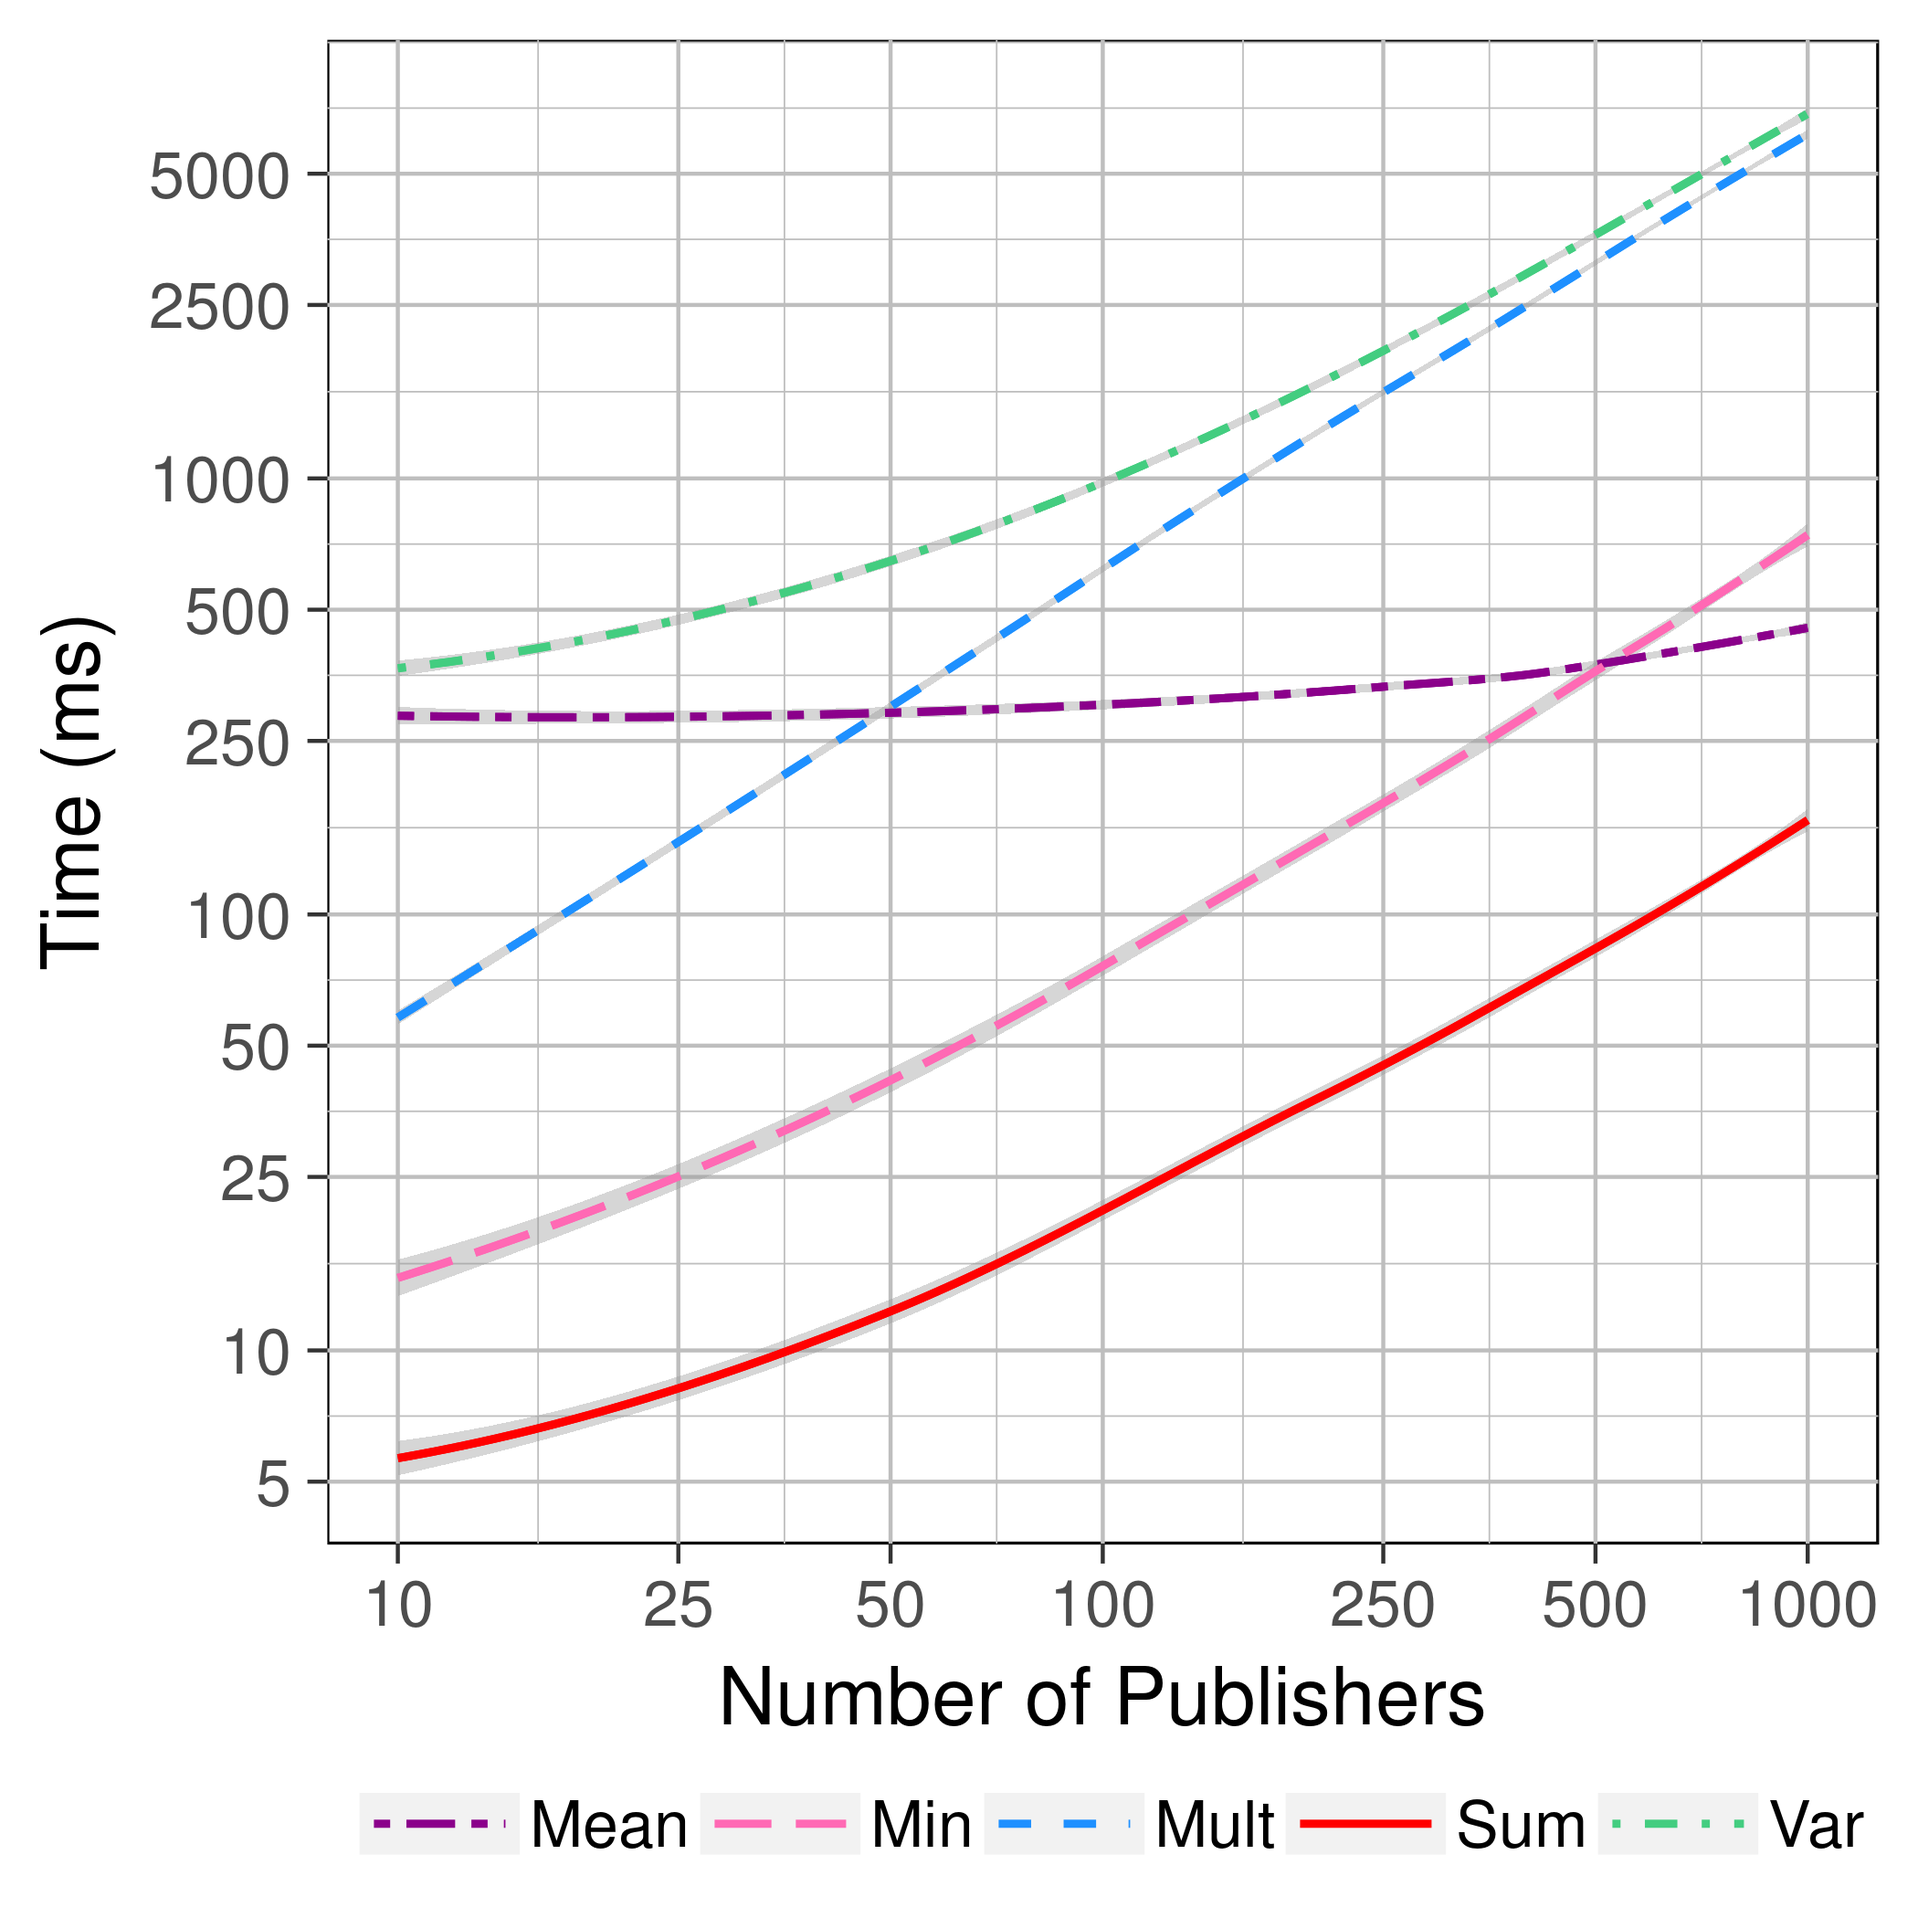
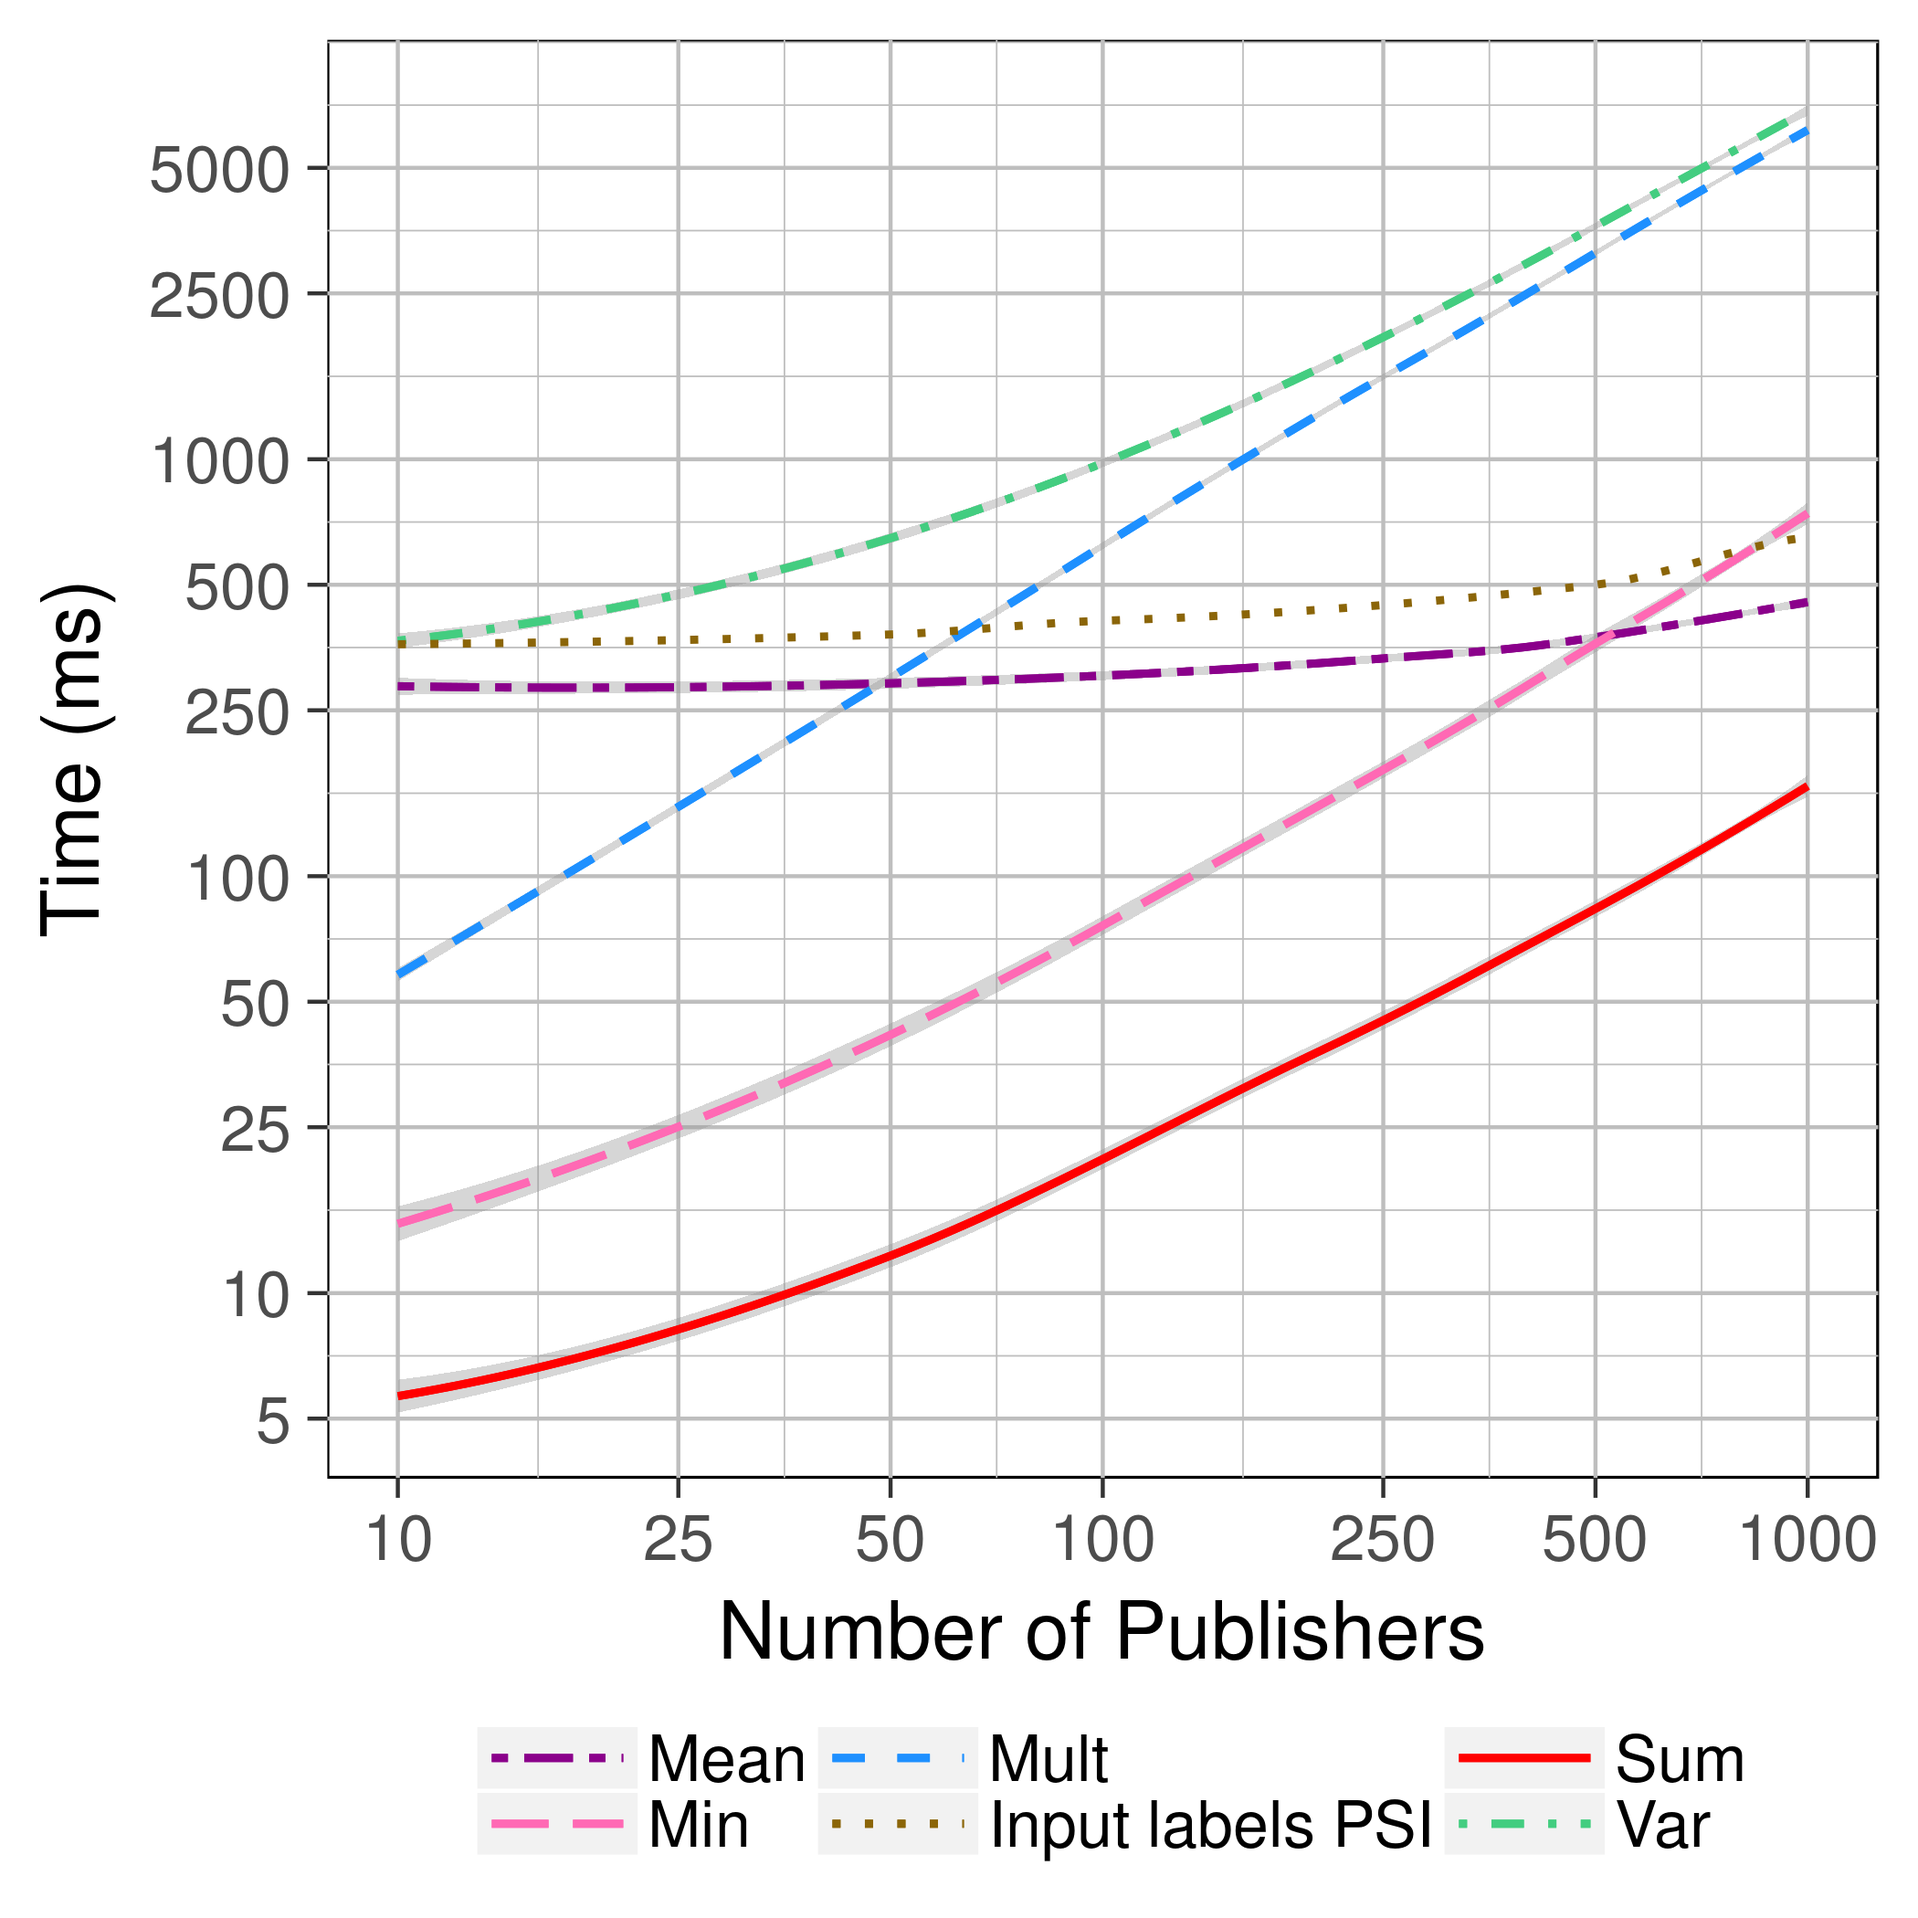
Update plots with PSI, explain ratchet key sync

diff --git a/system.tex b/system.tex
@@ -36,8 +36,19 @@ the using the preimage-resistance of a cryptographic hash function).  At any
 round, a seed can be derived from a ratchet key to be used to generate
 pseudorandom byte strings.  The idea of using ratchet keys to achieve forward
 secrecy has been popularized by the Signal messaging protocol (already analyzed
-by the security research community~\cite{signal1}~\cite{signal2}), from which we take
-inspiration.
+by the security research community~\cite{signal1}~\cite{signal2}), from which
+we take inspiration.
+
+To maintain syncrhonization of the ratchet keys between the clients and the
+\garbler, when sending values the Publisher adds the round of the ratchet key
+used to derive the seeds used for the labels in the message.  When the \broker
+requests the garbling of the circuit to the \garbler, it also specifies the
+rounds of the values it will use, so that the \garbler can advance the
+Publisher ratchet key accordingly to derive the same seed and generate matching
+labels.  Similarly, the \garbler tells the \broker the function ratchet key
+round used to generate the mask, so that the \broker can forward this
+information to the Subscribers which in turn advance their stored ratchet keys
+to derive a matching mask.
 
 This design achieves the desired cryptographic properties of TLS for selected
 parts of the messages underlying the \MQTT{} communication, allowing the \broker

diff --git a/evaluation.tex b/evaluation.tex
@@ -341,8 +341,10 @@ this later result as the \emph{rank}.
     \caption{Mean time required for the different steps of the protocol to
       evaluate different statistical measures of the parking lot dataset.
       Garbling and evaluating includes the time to garble and evaluate the
-      input identity.  Results obtained from the mean of 5 repetitions for each
-      configuration.}
+      input identity.  The mean time required to perform the Private
+      Intersection Set of the input labls in all cases has been 
+      \mbox{$1107.4 \text{ } ms$}.  Results obtained from the mean of 5 repetitions for
+      each configuration.}
     \label{stats-times}
 \end{table}
 
